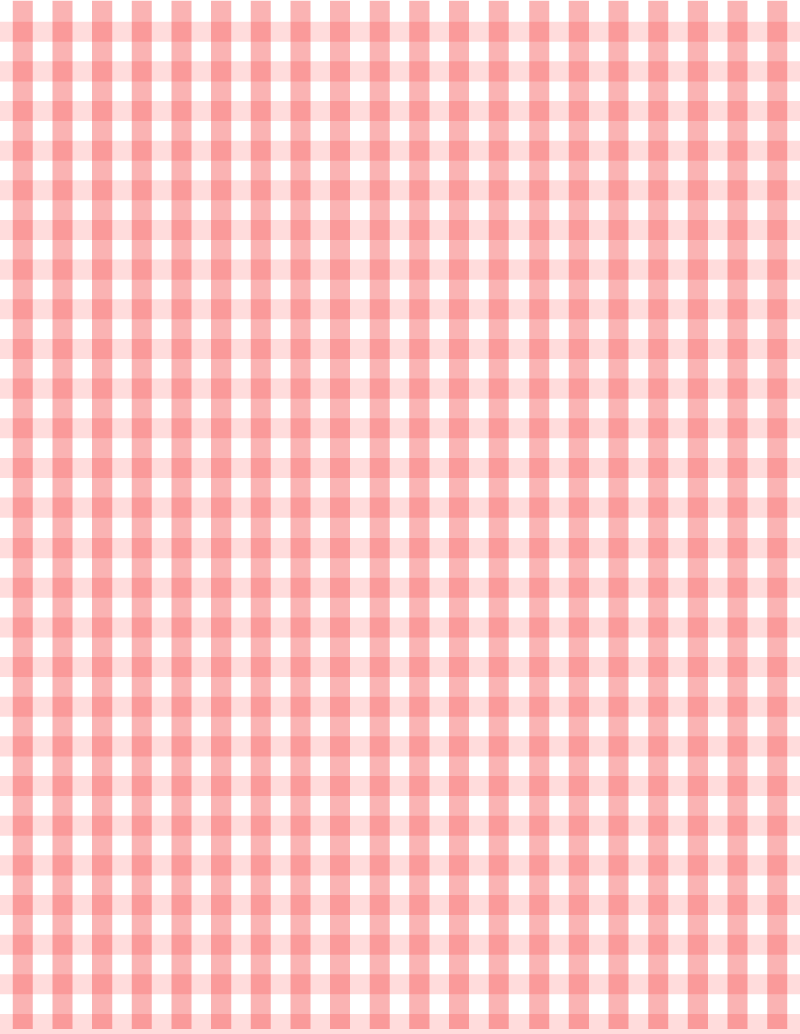
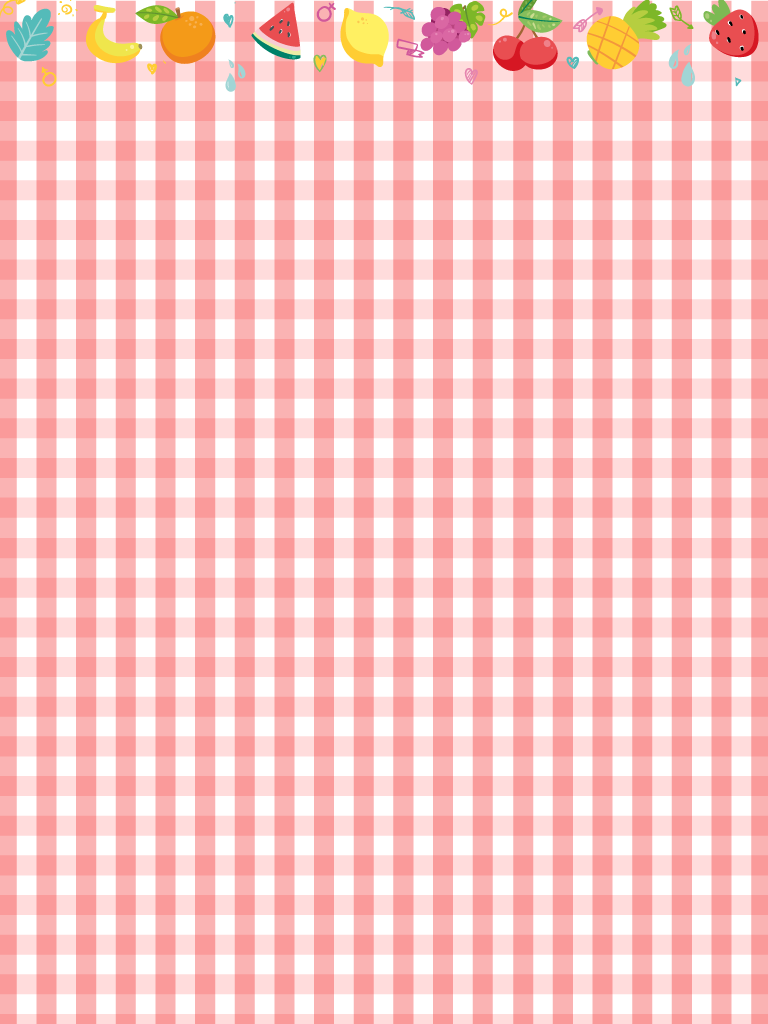
img y background

diff --git a/assets/index.html b/assets/index.html
@@ -3,31 +3,42 @@
   <head>
     <meta charset="utf-8">
     <title></title>
-    <link href="https://fonts.googleapis.com/css?family=Annie+Use+Your+Telescope" rel="stylesheet">
+    <link href="https://fonts.googleapis.com/css?family=Annie+Use+Your+Telescope|The+Girl+Next+Door" rel="stylesheet">
     <style>
     body {
       text-align: center;
-      background: url (img/fondo.png);
+      background: url(img/fondo.png);
       color : #0D276E;
       font-family: 'Annie Use Your Telescope', cursive;
+      -webkit-background-size: cover;
+	    -moz-background-size: cover;
+	    -o-background-size: cover;
+      background-size: cover;
+    }
+    div{
+      text-align: left;
+      font-family: 'The Girl Next Door', cursive;
     }
     </style>
   </head>
   <body>
-    <h1>La frutería</h1>
+    <h1> <font size=50>La frutería </font></h1>
     <div>
-      <p>
-        <strong>La frutería</strong> es una empresa familiar de tercera generación qu ese dedica a la compra, venta
+      <p align = "center">
+        <strong>La frutería</strong> es una empresa familiar de tercera generación que se dedica a la compra, venta
         y distribución de frutas al por mayor.
       </p>
-      <p>
+      <p align = "center">
         En la actualidad, somos la empresa <strong>líder en el servicio de distribución de frutas.</strong>
       </p>
+    </div>
+    <div align= "center">
+      <img src="img/Frutas_verduras_cenefa.jpg" width="50%" >
     </div>
     <div>
       <h2>Cátalogo: </h2>
       <ol>
-        <li> </li>
+        <li>manzana</li>
       </ol>
     </div>
   </body>
